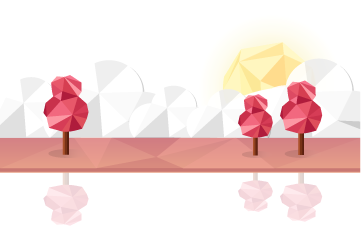
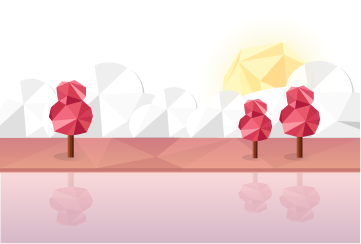
이미지, 폰트 변경

diff --git a/src/routes/Quiz.js b/src/routes/Quiz.js
@@ -5,15 +5,22 @@ import village_road from '../img/village_road.png';
 import village_bottom from '../img/village_bottom.png';
 import village_top from '../img/village_top.png';
 import bar_1 from '../img/bar_1.png';
-import sea_bg from '../img/sea_bg.png';
+import sea_bottom from '../img/sea_bottom.png';
+import sea_top from '../img/sea_top.png';
 import sea_surfing from '../img/sea_surfing.png';
 import bar_2 from '../img/bar_2.png';
 import sea_turtle from '../img/sea_turtle.png';
 import desert_tear from '../img/desert_tear.png';
+import desert_bottom from '../img/desert_bottom.png';
+import desert_top from '../img/desert_top.png';
 import bar_3 from '../img/bar_3.png';
 import desert_activity from '../img/desert_activity.png';
 import desert_sand from '../img/desert_sand.png';
+import desert_dark_bottom from '../img/desertdark_bottom.png';
+import desert_dark_top from '../img/desertdark_top.png';
 import polar_juggling from '../img/polar_juggling.png';
+import polar_bottom from '../img/polar_bottom.png';
+import polar_top from '../img/polar_top.png';
 import polar_clock from '../img/polar_clock.png';
 import bar_4 from '../img/bar_4.png';
 
@@ -25,8 +32,8 @@ var bg_gradations = ["linear-gradient(to bottom, #D88089CC, #FFC586CC)",
 "linear-gradient(to bottom, #25002ACC, #3A136ACC, #76A5FFCC)",
 "linear-gradient(to bottom, #7285C2CC, #A6C0DFCC, #C1D2E8CC)",
 "linear-gradient(to bottom, #7285C2CC, #A6C0DFCC, #C1D2E8CC)"];
-var bg_top_images = [village_top, village_top, village_top, village_top, village_top, village_top, village_top, village_top];
-var bg_bottom_images = [village_bottom, village_bottom, village_bottom, village_bottom, village_bottom, village_bottom, village_bottom, village_bottom];
+var bg_top_images = [village_top, sea_top, sea_top, desert_top, desert_top, desert_dark_top, polar_top, polar_top];
+var bg_bottom_images = [village_bottom, sea_bottom, sea_bottom, desert_bottom, desert_bottom, desert_dark_bottom, polar_bottom, polar_bottom];
 var images = [village_road, sea_surfing, sea_turtle, desert_tear, desert_activity, desert_sand, polar_juggling, polar_clock];
 var texts = ["두 갈래 길에 들어선 코알라\n이정표가 없다! 이때 당신의 선택은?",
 "바다에 도착했다\n함께 서핑하러 가자고 제안하는 거북이\n이때 당신의 반응은?",
@@ -83,7 +90,7 @@ class QuizCard extends React.Component {
             this.setState({
                 bg_gradation: bg_gradations[this.id],
                 bg_top_image: bg_top_images[this.id],
-                bg_botton_image: bg_bottom_images[this.id],
+                bg_bottom_image: bg_bottom_images[this.id],
                 image: images[this.id],
                 text: texts[this.id],
                 answer1: answers1[this.id],

diff --git a/src/routes/Quiz.css b/src/routes/Quiz.css
@@ -59,7 +59,7 @@
     height: 11%;
     background-color: #59375d;
     color: white;
-    font-weight: 600;
+    font-weight: 500;
     font-size: 1.4rem;
     text-decoration: unset;
     text-align: center;
@@ -93,12 +93,14 @@
 .quiz__answer1 p, .quiz__answer2 p, .quiz__answer3 p {
     position: absolute;
     width: 100%;
-    top: 22%;
+    top: 27%;
     left: 50%;
     transform: translate(-50%, -50%);
     white-space: pre-wrap;
 }
 .quiz .quiz__progress {
+    position: absolute;
+    bottom: 0;
     width: 100%;
 }
 

diff --git a/src/App.css b/src/App.css
@@ -1,4 +1,4 @@
-@import url(http://fonts.googleapis.com/earlyaccess/notosanskr.css);
+@import url(//fonts.googleapis.com/earlyaccess/notosanskr.css);
 
 html {
     font-size: 62.5%;
@@ -8,7 +8,7 @@ body {
     padding: 0;
     width: 100%;
     max-width: 500px;
-    font-family: 'NotoSans KR';
+    font-family: "Noto Sans KR", sans-serif;
 }
 @media screen and (min-width: 320px) and (max-width: 599px) {
      html { 

diff --git a/src/components/Info.css b/src/components/Info.css
@@ -49,7 +49,7 @@
     background-color: #59375d;
     border: solid #59375D;
     color: white;
-    font-weight: 600;
+    font-weight: 500;
     font-size: 1.8rem;
     text-decoration: unset;
     text-align: center;
